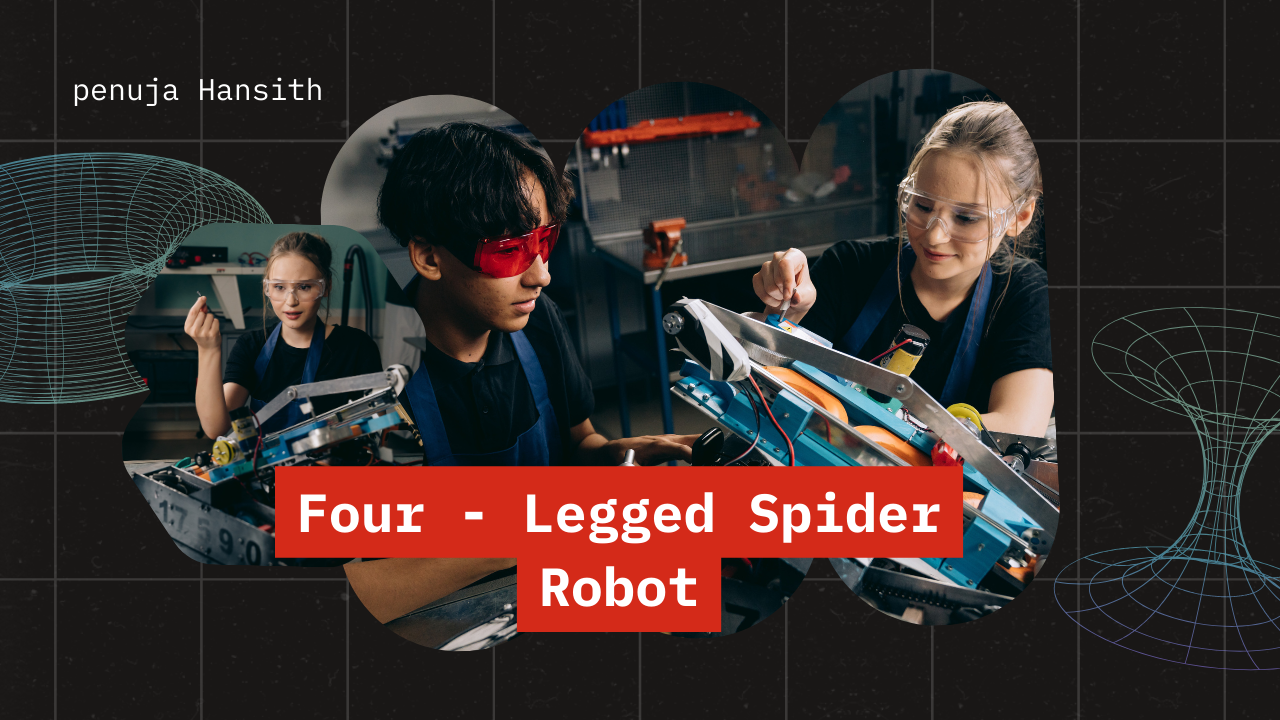
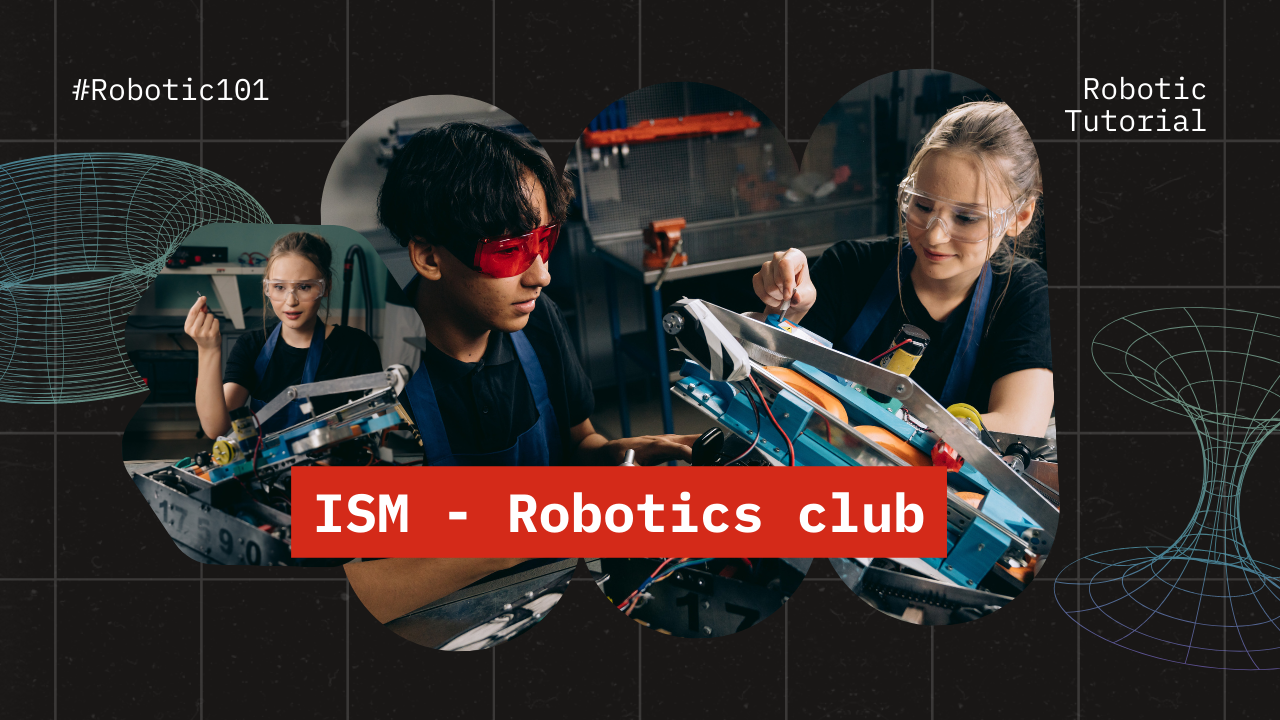
new thumbnails

Changed region(s): [[0.1875, 0.6417, 0.75, 0.8861], [0.0625, 0.0917, 0.25, 0.1528], [0.8125, 0.0917, 0.9375, 0.1833]]

diff --git a/index.html b/index.html
@@ -27,8 +27,8 @@
                 <div class="profile-more">
                     <p class="summary">I build scalable full-stack solutions and engaging tech experiences. From web apps to robotics. Obsessed with efficiency, impact, and clean design.</p>
                     <div class="follow">
-                        <p class="followers"><b>3</b> projects</p>
-                        <p class="following"><b>4</b> posts</p>
+                        <p class="followers"><b>9</b> projects</p>
+                        <p class="following"><b>3</b> posts</p>
                     </div>
                     <p class="city">Panadura</p>
                     <a href="" class="github">https://github.com/PenujaH</a>
@@ -47,11 +47,11 @@
                         </div>
                     </a>
 
-                    <a href="">
+                    <a href="post-2.html">
                         <div class="project">
                             <img class="thumbnail" src="images/thumbnail-2.png">
                             <div class="project-info">
-                                <p class="project-heading">Digital Record Room for DIvisional Secretariat Moratuwa</p>
+                                <p class="project-heading">Python was my first love</p>
                                 <p class="author">by Penuja Hansith</p>
                             </div>
                         </div>
@@ -61,7 +61,7 @@
                         <div class="project">
                             <img class="thumbnail" src="images/thumbnail-3.png">
                             <div class="project-info">
-                                <p class="project-heading">Digital Record Room for DIvisional Secretariat Moratuwa</p>
+                                <p class="project-heading">ISM Robotics Club</p>
                                 <p class="author">by Penuja Hansith</p>
                             </div>
                         </div>

diff --git a/post-2.html b/post-2.html
@@ -1,0 +1,18 @@
+<!doctype html>
+<html lang="en">
+  <head>
+    <meta charset="utf-8">
+    <meta name="viewport" content="width=device-width, initial-scale=1">
+    <title>Python was my first love</title>
+    <link href="https://cdn.jsdelivr.net/npm/bootstrap@5.3.8/dist/css/bootstrap.min.css" rel="stylesheet" integrity="sha384-sRIl4kxILFvY47J16cr9ZwB07vP4J8+LH7qKQnuqkuIAvNWLzeN8tE5YBujZqJLB" crossorigin="anonymous">
+    <link rel="stylesheet" href="styles.css">
+</head>
+<body>
+    
+    <main>
+       
+    </main>
+
+    <script src="https://cdn.jsdelivr.net/npm/bootstrap@5.3.8/dist/js/bootstrap.bundle.min.js" integrity="sha384-FKyoEForCGlyvwx9Hj09JcYn3nv7wiPVlz7YYwJrWVcXK/BmnVDxM+D2scQbITxI" crossorigin="anonymous"></script>
+</body>
+</html>

diff --git a/styles.css b/styles.css
@@ -116,6 +116,7 @@ main{
     flex-wrap: wrap;
     gap: 10px;
     align-items: center;
+    justify-content: center;
 }
 
 .project{
